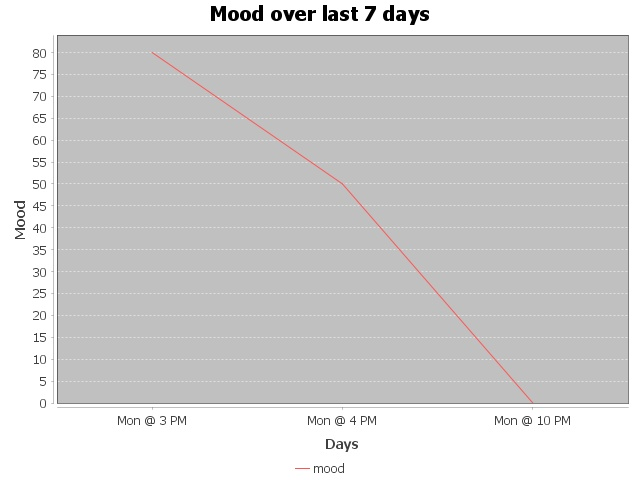
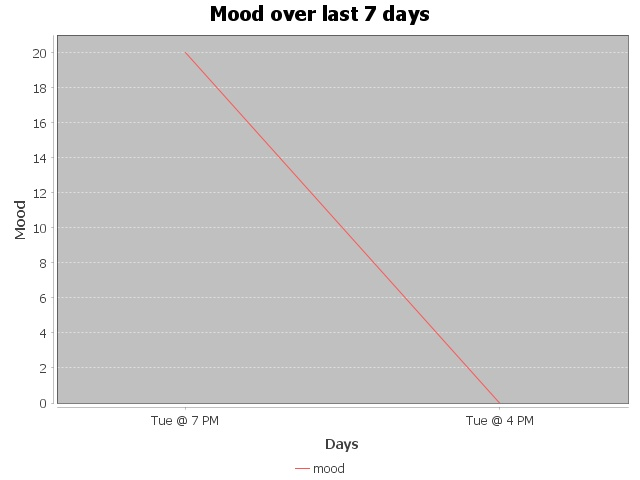
Partially implemented setting graph time feat.

diff --git a/src/MyEventListener.java b/src/MyEventListener.java
@@ -123,12 +123,92 @@ public class MyEventListener extends ListenerAdapter{
 					+ "different spelling or different word.").queue();
 		} // end of switch()
 		
+		// The third time the user enters a mood, inform them about the graph
+		if(account.getCount() == 3) {
+			currentChannel.sendTyping().queue();
+			currentChannel.sendMessage("Hey " + event.getAuthor().getName() + "! I'm glad"
+					+ " to see you using the mood response feature!" + " There's even more"
+							+ " I can do, including tracking your moods and graphing them"
+							+ " over time. This is a great way to see how your moods are"
+							+ " fluctuating.").queueAfter(2, TimeUnit.SECONDS);
+			currentChannel.sendMessage("This graph is customizable too." + "You can choose how"
+					+ " long of a period to graph your mood on. By default, we graph your mood"
+					+ " over a week. Would you like to change this? Please enter 'yes' or 'no'.");
+			
+			waiter.waitForEvent(MessageReceivedEvent.class, 
+					e -> e.getAuthor().equals(event.getAuthor()), 
+					e -> setGraphTime(e.getChannel(), event.getAuthor(), e.getMessage().getContentRaw().toLowerCase()),
+					RESPONSE_WAIT_TIME, TimeUnit.SECONDS, () -> currentChannel.sendMessage
+					("if you ever want to change it, simply type '!mood'.").queue());
+		}
+		
+		// Save data to '[username].ser'
 		try {
 			account.saveAccountData();
 		} catch (IOException e) {
 			e.printStackTrace();
 		}
 		
+	}
+
+	/**
+	 * 
+	 * @param channel: The MessageChannel used by the bot & users
+	 * @param user: used to confirm the user sent a reply, not anyone else
+	 * @param response: the actual message sent by the user
+	 * 
+	 * This method handles the user response regarding the period of time
+	 * the mood graph covers. If the user says 'yes', the bot will ask them
+	 * how long they wish their graph to cover. If they say no, the bot
+	 * ends the interaction.
+	 */
+	private void setGraphTime(MessageChannel channel, User user, String response) {
+		if(response.equals("yes") || response.equals("yea") || response.equals("yeah")) {
+			channel.sendMessage("Okay great! What would you like to set the time period to?" +
+								"Please choose '3 days', '1 week', '2 weeks', '1 month', "
+								+ "'3 months', '6 months', or '1 year'");
+			waiter.waitForEvent(MessageReceivedEvent.class, 
+					e -> e.getAuthor().equals(user), 
+					e -> setGraphTime2(channel, user, e.getMessage().getContentRaw().toLowerCase()),
+					RESPONSE_WAIT_TIME, TimeUnit.SECONDS, () -> currentChannel.sendMessage
+					("and what are some ways to recreate that success?").queue());
+		}
+		else {
+			channel.sendMessage("Sounds good! Have a nice day!");
+		}
+	}
+
+	private void setGraphTime2(MessageChannel channel, User user, String response) {
+		if(response.contains("3 days")) {
+			account.setDaysInGraph(3);
+		}
+		else if(response.contains("1 week")) {
+			account.setDaysInGraph(7);
+		}
+		else if(response.contains("2 weeks")) {
+			account.setDaysInGraph(14);
+		}
+		else if(response.contains("1 month")) {
+			account.setDaysInGraph(30);
+		}
+		else if(response.contains("3 months")) {
+			account.setDaysInGraph(91);
+		}
+		else if(response.contains("6 months")) {
+			account.setDaysInGraph(182);
+		}
+		else if(response.contains("1 year")){
+			account.setDaysInGraph(365);
+		}
+		else {
+			channel.sendMessage("Sorry, please enter '3 days', '1 week', '2 weeks',"
+					+ " '1 month', '3 months', '6 months' or '1 year'");
+			waiter.waitForEvent(MessageReceivedEvent.class, 
+					e -> e.getAuthor().equals(user), 
+					e -> setGraphTime2(channel, user, e.getMessage().getContentRaw().toLowerCase()),
+					RESPONSE_WAIT_TIME, TimeUnit.SECONDS, () -> currentChannel.sendMessage
+					("You can always set the graph period with the '!graph' command").queue());
+		}
 	}
 
 	/**

diff --git a/src/Account.java b/src/Account.java
@@ -25,15 +25,19 @@ public class Account implements Serializable{
 
 	private static final long serialVersionUID = 1L;
 	private String username;
-	private ArrayList<Mood> lastThirtyFiveMoods;
+	private ArrayList<Mood> moodList;
 	private HashMap<String, Mood> moods;
+	private int daysInGraph;
+	private int count;
 	
-	// Initialize the Moodss HashMap with all
-	// possible Moodss
+	// Initialize the Moods HashMap with all
+	// possible Moods
 	public Account(String username) {
 		this.username = username;
-		this.lastThirtyFiveMoods = new ArrayList<Mood>(35);
+		this.moodList = new ArrayList<Mood>();
 		this.moods = new HashMap<String, Mood>();
+		this.daysInGraph = 7;
+		this.count = 0;
 		initMoods();
 	}
 	
@@ -65,25 +69,16 @@ public class Account implements Serializable{
 	 * @param Moods - the selected Moods
 	 */
 	public void add(String mood) {
+		
 		// Moods hasn't been initialized/wasn't in constructor originally
 		if(this.moods.get(mood) == null)
 			this.moods.put(mood, new Mood(mood));
 
-		this.moods.get(mood).increment();
-		
-		
-		// Since we're adding the most recent dates at the
-		// BEGINNING of the ArrayList, we must remove the last/oldest
-		// element if we exceed the maximum number of Moods
-		// we want to store for the last week
-		if(lastThirtyFiveMoods.size() == 35) {
-			lastThirtyFiveMoods.remove(34);
-		}
-		
-		lastThirtyFiveMoods.add(0, new Mood(mood));
-		
+		this.moods.get(mood).increment(); 	// increment HashMap
+		moodList.add(0, new Mood(mood)); 	// add new Mood (w/ timestamp) to list
+		count++; 							// increment number of total user responses
 			
-		System.out.println(this.moods.get(mood).getCount());
+		System.out.println(this.moods.get(mood).getCount()); // debugging print
 	}
 	
 	/**
@@ -147,8 +142,8 @@ public class Account implements Serializable{
 		return this.username;
 	}
 
-	public ArrayList<Mood> getLastThirtyFive() {
-		return this.lastThirtyFiveMoods;
+	public ArrayList<Mood> getMoodList() {
+		return this.moodList;
 	}
 
 	
@@ -157,25 +152,37 @@ public class Account implements Serializable{
 	 * the user has recorded over the last 7 days.
 	 * 
 	 * This method uses the Date object to check if the moods
-	 * in lastThirtyFiveMoods are within the last 7 days. If so,
+	 * in moodList are within the last 7 days. If so,
 	 * they are added to the list.
 	 * 
 	 * @return recentMoods - all moods in the last week (max 5 per day)
 	 */
-	public ArrayList<Mood> getRecentMoods() {
+	public ArrayList<Mood> getRecentMoods(int days) {
 		
 		ArrayList<Mood> recentMoods = new ArrayList<Mood>();
 		
 		long DAY_IN_MS = 1000 * 60 * 60 * 24;
-		Date sevenDaysAgo = new Date(System.currentTimeMillis() - (7 * DAY_IN_MS));
+		Date nDaysAgo = new Date(System.currentTimeMillis() - (days * DAY_IN_MS));
 		
-		for(int i=0; i<lastThirtyFiveMoods.size(); i++) {
+		for(int i=0; i<moodList.size(); i++) {
 			
-			if(lastThirtyFiveMoods.get(i).getCreation().after(sevenDaysAgo)) {
-				recentMoods.add(lastThirtyFiveMoods.get(i));
+			if(moodList.get(i).getCreation().after(nDaysAgo)) {
+				recentMoods.add(moodList.get(i));
 			}
 		}
 		
 		return recentMoods;
+	}
+
+	public int getCount() {
+		return this.count;
+	}
+
+	public void setDaysInGraph(int i) {
+		this.daysInGraph = i;
+	}
+	
+	public int getDaysInGraph() {
+		return this.daysInGraph;
 	}
 }

diff --git a/src/Main.java b/src/Main.java
@@ -58,11 +58,8 @@ public class Main {
 	private final static Random rand = new Random();
 	
 	/**
-	 * Can send the user a message at fixed intervals for a fixed amount of time. Currently,
-	 * it sends the message "hi" every 10 seconds for 1 hour.
-	 * 
-	 * Eventually, this should send health reminders to the user. I'll probably implement
-	 * some ArrayList of reminders and rotate through them randomly.
+	 * Sends health reminders to the user. This method rotates through an 
+	 * ArrayList of reminders and displays a random reminder every 10 seconds.
 	 */
 	public static void sendMessageToUser() {
 	     

diff --git a/src/MoodGraph.java b/src/MoodGraph.java
@@ -56,7 +56,7 @@ public class MoodGraph extends JFrame{
     @SuppressWarnings("deprecation")
 	private DefaultCategoryDataset createDataset() {
         DefaultCategoryDataset result = new DefaultCategoryDataset();
-        ArrayList<Mood> moods = account.getRecentMoods();
+        ArrayList<Mood> moods = account.getRecentMoods(account.getDaysInGraph());
         
         HashMap<Integer, String> numToDay = new HashMap<Integer, String>();
         numToDay.put(0, "Sun");
